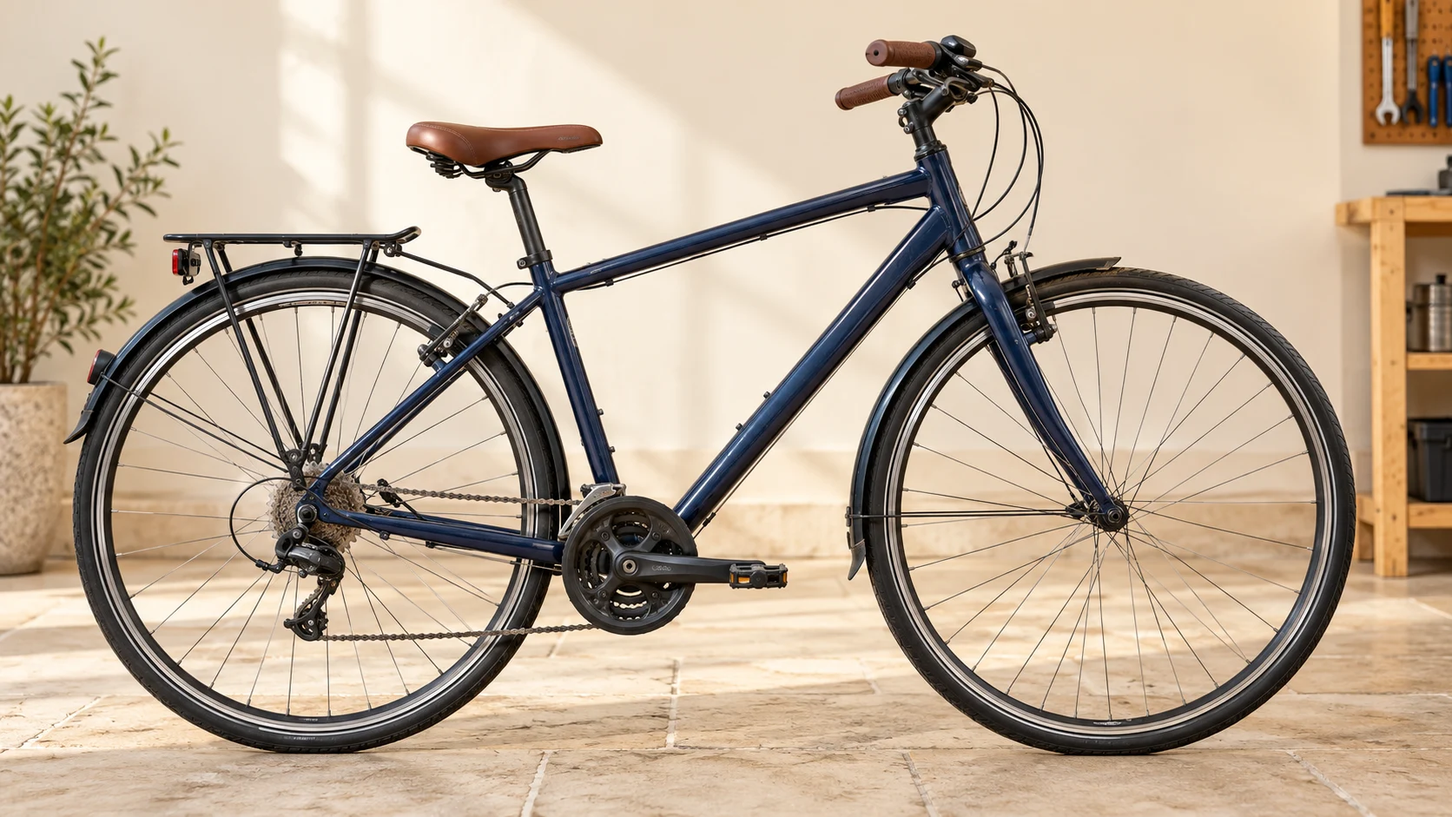
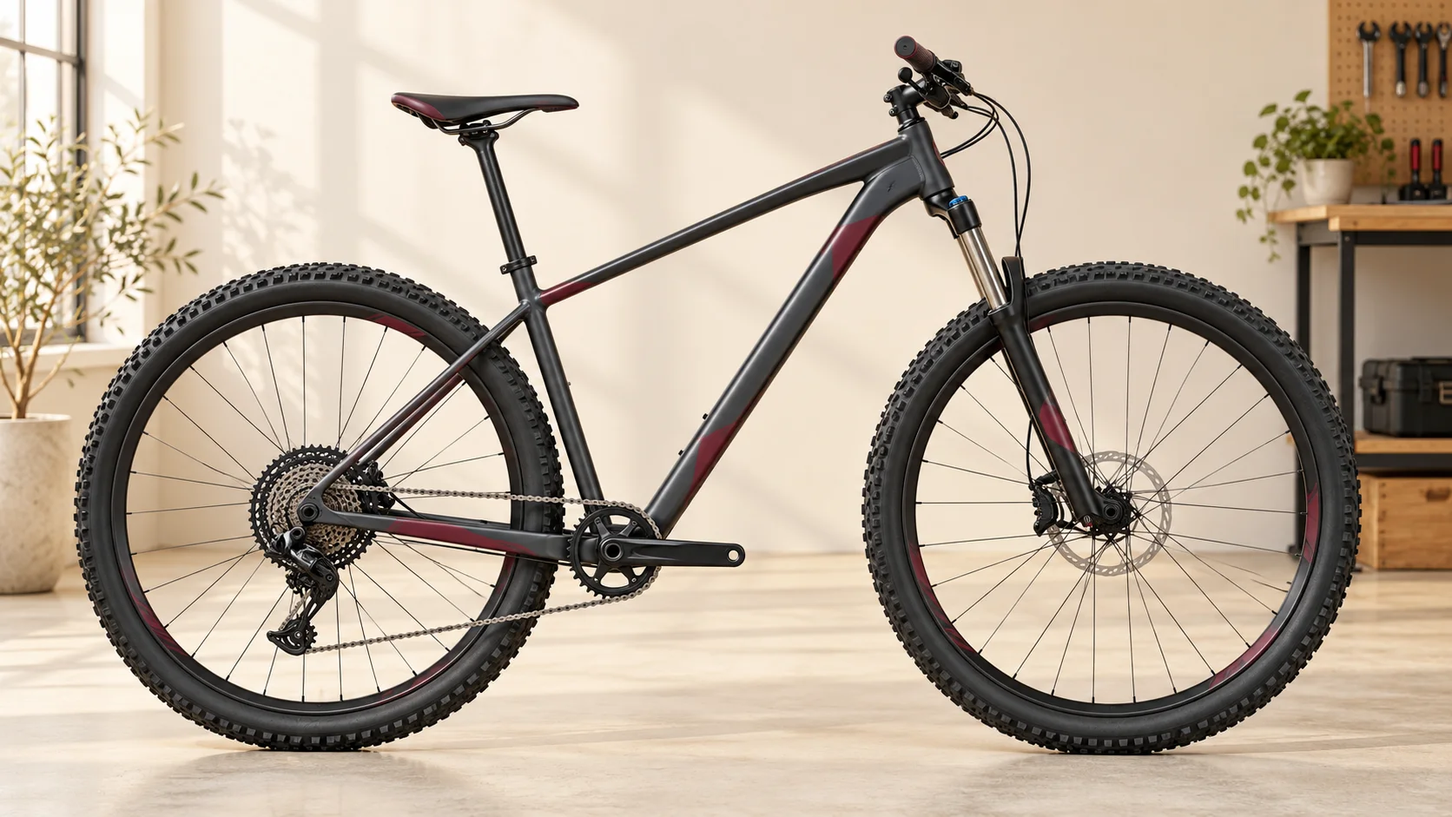
Update Lombard Sezam preview

diff --git a/co-przyjmujemy.html b/co-przyjmujemy.html
@@ -1,10 +1,10 @@
 <!doctype html>
 <html lang="pl"><head><meta charset="UTF-8"><meta name="robots" content="noindex, nofollow"><meta name="viewport" content="width=device-width,initial-scale=1">
-<title>Co przyjmujemy pod zastaw? Lombard Gorzów | Sezam</title><meta name="description" content="Złoto, srebro, telefony, laptopy, elektronarzędzia i rowery. Sprawdź, co przyjmuje Lombard Sezam w Gorzowie i jak przygotować przedmiot do wyceny."><link rel="canonical" href="https://lombard-gorzow.pl/co-przyjmujemy.html">
-<meta property="og:type" content="website"><meta property="og:title" content="Co przyjmujemy pod zastaw? Lombard Gorzów | Sezam"><meta property="og:description" content="Złoto, srebro, telefony, laptopy, elektronarzędzia i rowery. Sprawdź, co przyjmuje Lombard Sezam w Gorzowie i jak przygotować przedmiot do wyceny."><meta property="og:url" content="https://lombard-gorzow.pl/co-przyjmujemy.html"><meta property="og:image" content="https://lombard-gorzow.pl/assets/lombard-gotowka.webp"><meta property="og:locale" content="pl_PL">
-<link rel="stylesheet" href="style.css?v=c0da51a34c">
+<title>Co przyjmujemy pod zastaw? Lombard Gorzów | Sezam</title><meta name="description" content="Złoto, srebro, elektronika użytkowa, konsole PlayStation, elektronarzędzia i rowery. Sprawdź, co przyjmuje Lombard Sezam w Gorzowie."><link rel="canonical" href="https://lombard-gorzow.pl/co-przyjmujemy.html">
+<meta property="og:type" content="website"><meta property="og:title" content="Co przyjmujemy pod zastaw? Lombard Gorzów | Sezam"><meta property="og:description" content="Złoto, srebro, elektronika użytkowa, konsole PlayStation, elektronarzędzia i rowery. Sprawdź, co przyjmuje Lombard Sezam w Gorzowie."><meta property="og:url" content="https://lombard-gorzow.pl/co-przyjmujemy.html"><meta property="og:image" content="https://lombard-gorzow.pl/assets/lombard-gotowka.webp"><meta property="og:locale" content="pl_PL">
+<link rel="stylesheet" href="style.css?v=46b2a8a09e">
 <script type="application/ld+json">[{"@context": "https://schema.org", "@type": "WebSite", "name": "Lombard Sezam", "url": "https://lombard-gorzow.pl/"}]</script>
 <script defer src="app.js?v=8a57ca04e7"></script>
 
 </head><body><a class="skip-link" href="#tresc">Przejdź do treści</a><div class="top">GORZÓW WIELKOPOLSKI <span>Lombard · skup złota · wycena przedmiotów</span></div>
-<header id="gora"><a class="logo brand-sezam" href="index.html" aria-label="Lombard Sezam — strona główna"><img src="assets/sezam-logo.png?v=7c6a0f2772" alt="Logo Sezam" width="2033" height="313"></a><nav id="desktop-navigation" aria-label="Menu główne"><a href="co-przyjmujemy.html" aria-current="page">Co przyjmujemy</a><a href="na-sprzedaz.html">Na sprzedaż</a><a href="cennik.html">Cennik skupu</a><a href="kalkulator-oplat.html">Sprawdź, ile zapłacisz</a><a href="blog.html">Blog</a><a href="kontakt.html">Kontakt</a></nav><details class="mobile-navigation"><summary class="menu-toggle"><svg class="menu-icon" viewBox="0 0 24 24" width="23" height="23" aria-hidden="true"><path d="M3 6h18M3 12h18M3 18h18" fill="none" stroke="currentColor" stroke-width="2" stroke-linecap="round"/></svg><span>Menu</span></summary><nav id="main-navigation" aria-label="Menu główne"><a href="co-przyjmujemy.html" aria-current="page">Co przyjmujemy</a><a href="na-sprzedaz.html">Na sprzedaż</a><a href="cennik.html">Cennik skupu</a><a href="kalkulator-oplat.html">Sprawdź, ile zapłacisz</a><a href="blog.html">Blog</a><a href="kontakt.html">Kontakt</a></nav></details><a class="outline" href="kalkulator-oplat.html">Sprawdź opłaty →</a></header><main id="tresc"><section class="accepted-section" id="przyjmujemy"><div class="section-head"><div><div class="eyebrow">TWÓJ PRZEDMIOT MA WARTOŚĆ</div><h1>Co przyjmujemy w lombardzie w Gorzowie?</h1></div><p>Wybierz kategorię i zapytaj o wycenę.<br> Warunki ustalimy po sprawdzeniu przedmiotu.</p></div><div class="accepted-grid"><a href="kontakt.html#wycena" class="accepted-card"><img class="accepted-photo" src="assets/skup-zlota-srebra.webp?v=f5509496d9" alt="Złote obrączki, łańcuszek, moneta i mała sztabka oraz srebrne monety na kamiennym blacie — ilustracja poglądowa" loading="lazy" decoding="async" width="1536" height="864"><span class="category-number">01 / METALE SZLACHETNE</span><h3>Złoto i srebro</h3><p>Biżuteria, złote i srebrne monety oraz sztabki. Wycena według próby i masy.</p><span class="category-cta">Zapytaj o wycenę →</span></a><a href="kontakt.html#wycena" class="accepted-card"><img class="accepted-photo" src="assets/blog-elektronika.webp?v=cf7b031d32" alt="Telefon i laptop z ładowarką na biurku — ilustracja poglądowa" loading="lazy" decoding="async" width="1536" height="864"><span class="category-number">02 / ELEKTRONIKA</span><h3>Telefony i laptopy</h3><p>Telefony, smartfony i laptopy. Podaj model, stan urządzenia i posiadane akcesoria.</p><span class="category-cta">Zapytaj o wycenę →</span></a><a href="kontakt.html#wycena" class="accepted-card"><img class="accepted-photo" src="assets/elektronarzedzia.webp?v=ebbbbc404a" alt="Wiertarko-wkrętarka i szlifierka kątowa z akumulatorem i ładowarką — ilustracja poglądowa" loading="lazy" decoding="async" width="1536" height="864"><span class="category-number">03 / ELEKTRONARZĘDZIA</span><h3>Elektronarzędzia</h3><p>Wiertarki, wkrętarki, szlifierki i młotowiertarki. Podaj model, stan i posiadane akcesoria.</p><span class="category-cta">Zapytaj o wycenę →</span></a><a href="kontakt.html#wycena" class="accepted-card"><img class="accepted-photo" src="assets/rowery.webp?v=4b570c2f53" alt="Rower miejski z granatową ramą na jasnym tle — ilustracja poglądowa" loading="lazy" decoding="async" width="1536" height="864"><span class="category-number">04 / ROWERY</span><h3>Rowery</h3><p>Rowery miejskie, trekkingowe i górskie. Podaj model, stan roweru oraz posiadane akcesoria.</p><span class="category-cta">Zapytaj o wycenę →</span></a></div></section><section class="reading-section"><h2>Przynieś przedmiot lub zapytaj o wycenę</h2><p>Przyjmujemy różne wartościowe przedmioty. Podane kategorie to przykłady, a nie zamknięta lista. Jeśli masz inny przedmiot, napisz do Lombardu Sezam lub zadzwoń. Ustalimy, czy możemy go przyjąć i jakie informacje będą potrzebne.</p><p>Przy elektronice i elektronarzędziach podaj model, stan oraz posiadane akcesoria. Do roweru przygotuj informacje o wyposażeniu i ewentualnych usterkach. Przy złocie i srebrze znaczenie mają między innymi próba oraz masa. Ostateczna wycena wymaga sprawdzenia przedmiotu.</p><a class="button" href="kontakt.html">Zapytaj o swój przedmiot →</a></section></main><footer><a class="logo footer-brand" href="#gora">LOMBARD SEZAM<span>GORZÓW WIELKOPOLSKI</span></a><p>ul. Pocztowa 11<br> 66-400 Gorzów Wielkopolski</p><div class="footer-sites"><span>NASZE STRONY</span><nav aria-label="Nasze strony"><a href="https://sezam.com.pl" target="_blank" rel="noopener noreferrer">sezam.com.pl →</a><a href="https://srebrogorzow.pl" target="_blank" rel="noopener noreferrer">srebrogorzow.pl →</a><a href="https://zlotogorzow.pl" target="_blank" rel="noopener noreferrer">zlotogorzow.pl →</a><a href="https://www.obraczkigorzow.pl" target="_blank" rel="noopener noreferrer">www.obraczkigorzow.pl →</a><a href="https://www.skupzlotagorzow.pl" target="_blank" rel="noopener noreferrer">www.skupzlotagorzow.pl →</a></nav></div></footer></body></html>
+<header id="gora"><a class="logo brand-sezam" href="index.html" aria-label="Lombard Sezam — strona główna"><img src="assets/sezam-logo.png?v=7c6a0f2772" alt="Logo Sezam" width="2033" height="313"></a><nav id="desktop-navigation" aria-label="Menu główne"><a href="co-przyjmujemy.html" aria-current="page">Co przyjmujemy</a><a href="na-sprzedaz.html">Na sprzedaż</a><a href="cennik.html">Cennik skupu</a><a href="kalkulator-oplat.html">Sprawdź, ile zapłacisz</a><a href="blog.html">Blog</a><a href="kontakt.html">Kontakt</a></nav><details class="mobile-navigation"><summary class="menu-toggle"><svg class="menu-icon" viewBox="0 0 24 24" width="23" height="23" aria-hidden="true"><path d="M3 6h18M3 12h18M3 18h18" fill="none" stroke="currentColor" stroke-width="2" stroke-linecap="round"/></svg><span>Menu</span></summary><nav id="main-navigation" aria-label="Menu główne"><a href="co-przyjmujemy.html" aria-current="page">Co przyjmujemy</a><a href="na-sprzedaz.html">Na sprzedaż</a><a href="cennik.html">Cennik skupu</a><a href="kalkulator-oplat.html">Sprawdź, ile zapłacisz</a><a href="blog.html">Blog</a><a href="kontakt.html">Kontakt</a></nav></details><a class="outline" href="kalkulator-oplat.html">Sprawdź opłaty →</a></header><main id="tresc"><section class="accepted-section" id="przyjmujemy"><div class="section-head"><div><div class="eyebrow">TWÓJ PRZEDMIOT MA WARTOŚĆ</div><h1>Co przyjmujemy w lombardzie w Gorzowie?</h1></div><p>Wybierz kategorię i zapytaj o wycenę.<br> Warunki ustalimy po sprawdzeniu przedmiotu.</p></div><div class="accepted-grid"><a href="kontakt.html#wycena" class="accepted-card category-jewelry"><img class="accepted-photo" src="assets/skup-zlota-srebra.webp?v=a5ef214586" alt="Złota i srebrna biżuteria, łańcuszki, monety i sztabka — ilustracja poglądowa" loading="lazy" decoding="async" width="1672" height="941"><span class="category-number">01 / METALE SZLACHETNE</span><h3>Złoto i srebro</h3><p>Złota i srebrna biżuteria, łańcuszki, monety oraz sztabki. Zapytaj o wycenę swoich przedmiotów.</p><span class="category-cta">Zapytaj o wycenę →</span></a><a href="kontakt.html#wycena" class="accepted-card category-electronics"><img class="accepted-photo" src="assets/elektronika-uzytkowa.webp?v=36c6e0217d" alt="Laptop, smartfon i tablet z akcesoriami — ilustracja poglądowa" loading="lazy" decoding="async" width="1672" height="941"><span class="category-number">02 / ELEKTRONIKA UŻYTKOWA</span><h3>Telefony, laptopy i tablety</h3><p>Smartfony, laptopy, tablety i inna elektronika użytkowa. Podaj model, stan urządzenia i posiadane akcesoria.</p><span class="category-cta">Zapytaj o wycenę →</span></a><a href="kontakt.html#wycena" class="accepted-card category-consoles"><img class="accepted-photo" src="assets/konsole-playstation.webp?v=890b5bd54d" alt="Konsola PlayStation 5 z dwoma padami — ilustracja poglądowa" loading="lazy" decoding="async" width="1672" height="941"><span class="category-number">03 / KONSOLE</span><h3>Konsole PlayStation</h3><p>Konsole PlayStation z padami i akcesoriami. Podaj model, stan i zawartość zestawu.</p><span class="category-cta">Zapytaj o wycenę →</span></a><a href="kontakt.html#wycena" class="accepted-card category-tools"><img class="accepted-photo" src="assets/elektronarzedzia.webp?v=ebbbbc404a" alt="Wiertarko-wkrętarka i szlifierka kątowa z akumulatorem i ładowarką — ilustracja poglądowa" loading="lazy" decoding="async" width="1672" height="941"><span class="category-number">04 / ELEKTRONARZĘDZIA</span><h3>Elektronarzędzia</h3><p>Wiertarki, wkrętarki, szlifierki i młotowiertarki. Podaj model, stan i posiadane akcesoria.</p><span class="category-cta">Zapytaj o wycenę →</span></a><a href="kontakt.html#wycena" class="accepted-card category-bikes"><img class="accepted-photo" src="assets/rowery.webp?v=f06580676d" alt="Nowoczesny rower górski z amortyzatorem i hamulcami tarczowymi — ilustracja poglądowa" loading="lazy" decoding="async" width="1672" height="941"><span class="category-number">05 / ROWERY</span><h3>Rowery</h3><p>Rowery górskie, miejskie i trekkingowe. Podaj model, stan roweru oraz posiadane akcesoria.</p><span class="category-cta">Zapytaj o wycenę →</span></a></div></section><section class="reading-section"><h2>Przynieś przedmiot lub zapytaj o wycenę</h2><p>Przyjmujemy różne wartościowe przedmioty. Podane kategorie to przykłady, a nie zamknięta lista. Jeśli masz inny przedmiot, napisz do Lombardu Sezam lub zadzwoń. Ustalimy, czy możemy go przyjąć i jakie informacje będą potrzebne.</p><p>Przy elektronice i elektronarzędziach podaj model, stan oraz posiadane akcesoria. Do roweru przygotuj informacje o wyposażeniu i ewentualnych usterkach. Przy złocie i srebrze znaczenie mają między innymi próba oraz masa. Ostateczna wycena wymaga sprawdzenia przedmiotu.</p><a class="button" href="kontakt.html">Zapytaj o swój przedmiot →</a></section></main><footer><a class="logo footer-brand" href="#gora">LOMBARD SEZAM<span>GORZÓW WIELKOPOLSKI</span></a><p>ul. Pocztowa 11<br> 66-400 Gorzów Wielkopolski</p><div class="footer-sites"><span>NASZE STRONY</span><nav aria-label="Nasze strony"><a href="https://sezam.com.pl" target="_blank" rel="noopener noreferrer">sezam.com.pl →</a><a href="https://srebrogorzow.pl" target="_blank" rel="noopener noreferrer">srebrogorzow.pl →</a><a href="https://zlotogorzow.pl" target="_blank" rel="noopener noreferrer">zlotogorzow.pl →</a><a href="https://www.obraczkigorzow.pl" target="_blank" rel="noopener noreferrer">www.obraczkigorzow.pl →</a><a href="https://www.skupzlotagorzow.pl" target="_blank" rel="noopener noreferrer">www.skupzlotagorzow.pl →</a></nav></div></footer></body></html>

diff --git a/blog/swieta-bozego-narodzenia-2027.html b/blog/swieta-bozego-narodzenia-2027.html
@@ -2,7 +2,7 @@
 <html lang="pl"><head><meta charset="UTF-8"><meta name="robots" content="noindex, nofollow"><meta name="viewport" content="width=device-width,initial-scale=1">
 <title>Święta Bożego Narodzenia 2027 — zaplanuj wydatki i daj rzeczom drugie życie. | Lombard Sezam Gorzów</title><meta name="description" content="Spokojny plan zakupów, przegląd szuflad i prezenty z drugiej ręki bez zakupowego pośpiechu."><link rel="canonical" href="https://lombard-gorzow.pl/blog/swieta-bozego-narodzenia-2027.html">
 <meta property="og:type" content="article"><meta property="og:title" content="Święta Bożego Narodzenia 2027 — zaplanuj wydatki i daj rzeczom drugie życie. | Lombard Sezam Gorzów"><meta property="og:description" content="Spokojny plan zakupów, przegląd szuflad i prezenty z drugiej ręki bez zakupowego pośpiechu."><meta property="og:url" content="https://lombard-gorzow.pl/blog/swieta-bozego-narodzenia-2027.html"><meta property="og:image" content="https://lombard-gorzow.pl/assets/blog-swieta.webp"><meta property="og:locale" content="pl_PL">
-<link rel="stylesheet" href="../style.css?v=c0da51a34c">
+<link rel="stylesheet" href="../style.css?v=46b2a8a09e">
 <script type="application/ld+json">[{"@context": "https://schema.org", "@type": "WebSite", "name": "Lombard Sezam", "url": "https://lombard-gorzow.pl/"}, {"@context": "https://schema.org", "@type": "BlogPosting", "headline": "Święta Bożego Narodzenia 2027 — zaplanuj wydatki i daj rzeczom drugie życie.", "description": "Spokojny plan zakupów, przegląd szuflad i prezenty z drugiej ręki bez zakupowego pośpiechu.", "image": "https://lombard-gorzow.pl/assets/blog-swieta.webp", "author": {"@type": "Organization", "name": "Lombard Sezam"}, "mainEntityOfPage": "https://lombard-gorzow.pl/blog/swieta-bozego-narodzenia-2027.html"}]</script>
 <script defer src="../app.js?v=8a57ca04e7"></script>
 

diff --git a/blog/co-przyjmujemy-do-lombardu.html b/blog/co-przyjmujemy-do-lombardu.html
@@ -2,7 +2,7 @@
 <html lang="pl"><head><meta charset="UTF-8"><meta name="robots" content="noindex, nofollow"><meta name="viewport" content="width=device-width,initial-scale=1">
 <title>Co przyjmujemy do lombardu? Zacznij od sprawdzenia swoich rzeczy. | Lombard Sezam Gorzów</title><meta name="description" content="Złoto, biżuteria, telefony i laptopy — dowiedz się, jakie informacje przygotować przed wyceną."><link rel="canonical" href="https://lombard-gorzow.pl/blog/co-przyjmujemy-do-lombardu.html">
 <meta property="og:type" content="article"><meta property="og:title" content="Co przyjmujemy do lombardu? Zacznij od sprawdzenia swoich rzeczy. | Lombard Sezam Gorzów"><meta property="og:description" content="Złoto, biżuteria, telefony i laptopy — dowiedz się, jakie informacje przygotować przed wyceną."><meta property="og:url" content="https://lombard-gorzow.pl/blog/co-przyjmujemy-do-lombardu.html"><meta property="og:image" content="https://lombard-gorzow.pl/assets/blog-przedmioty.webp"><meta property="og:locale" content="pl_PL">
-<link rel="stylesheet" href="../style.css?v=c0da51a34c">
+<link rel="stylesheet" href="../style.css?v=46b2a8a09e">
 <script type="application/ld+json">[{"@context": "https://schema.org", "@type": "WebSite", "name": "Lombard Sezam", "url": "https://lombard-gorzow.pl/"}, {"@context": "https://schema.org", "@type": "BlogPosting", "headline": "Co przyjmujemy do lombardu? Zacznij od sprawdzenia swoich rzeczy.", "description": "Złoto, biżuteria, telefony i laptopy — dowiedz się, jakie informacje przygotować przed wyceną.", "image": "https://lombard-gorzow.pl/assets/blog-przedmioty.webp", "author": {"@type": "Organization", "name": "Lombard Sezam"}, "mainEntityOfPage": "https://lombard-gorzow.pl/blog/co-przyjmujemy-do-lombardu.html"}]</script>
 <script defer src="../app.js?v=8a57ca04e7"></script>
 

diff --git a/blog/telefon-laptop-przed-sprzedaza.html b/blog/telefon-laptop-przed-sprzedaza.html
@@ -2,7 +2,7 @@
 <html lang="pl"><head><meta charset="UTF-8"><meta name="robots" content="noindex, nofollow"><meta name="viewport" content="width=device-width,initial-scale=1">
 <title>Telefon lub laptop do sprzedaży — co zrobić przed wizytą? | Lombard Sezam Gorzów</title><meta name="description" content="Prosta lista przygotowań: model, akcesoria, kopia danych i bezpieczne wylogowanie."><link rel="canonical" href="https://lombard-gorzow.pl/blog/telefon-laptop-przed-sprzedaza.html">
 <meta property="og:type" content="article"><meta property="og:title" content="Telefon lub laptop do sprzedaży — co zrobić przed wizytą? | Lombard Sezam Gorzów"><meta property="og:description" content="Prosta lista przygotowań: model, akcesoria, kopia danych i bezpieczne wylogowanie."><meta property="og:url" content="https://lombard-gorzow.pl/blog/telefon-laptop-przed-sprzedaza.html"><meta property="og:image" content="https://lombard-gorzow.pl/assets/blog-elektronika.webp"><meta property="og:locale" content="pl_PL">
-<link rel="stylesheet" href="../style.css?v=c0da51a34c">
+<link rel="stylesheet" href="../style.css?v=46b2a8a09e">
 <script type="application/ld+json">[{"@context": "https://schema.org", "@type": "WebSite", "name": "Lombard Sezam", "url": "https://lombard-gorzow.pl/"}, {"@context": "https://schema.org", "@type": "BlogPosting", "headline": "Telefon lub laptop do sprzedaży — co zrobić przed wizytą?", "description": "Prosta lista przygotowań: model, akcesoria, kopia danych i bezpieczne wylogowanie.", "image": "https://lombard-gorzow.pl/assets/blog-elektronika.webp", "author": {"@type": "Organization", "name": "Lombard Sezam"}, "mainEntityOfPage": "https://lombard-gorzow.pl/blog/telefon-laptop-przed-sprzedaza.html"}]</script>
 <script defer src="../app.js?v=8a57ca04e7"></script>
 

diff --git a/blog/ile-warte-jest-zloto.html b/blog/ile-warte-jest-zloto.html
@@ -2,7 +2,7 @@
 <html lang="pl"><head><meta charset="UTF-8"><meta name="robots" content="noindex, nofollow"><meta name="viewport" content="width=device-width,initial-scale=1">
 <title>Ile warte jest Twoje złoto? Próba, masa i cena za gram. | Lombard Sezam Gorzów</title><meta name="description" content="Jak czytać cennik skupu i dlaczego cena całego pierścionka nie wynika wyłącznie z jego wagi?"><link rel="canonical" href="https://lombard-gorzow.pl/blog/ile-warte-jest-zloto.html">
 <meta property="og:type" content="article"><meta property="og:title" content="Ile warte jest Twoje złoto? Próba, masa i cena za gram. | Lombard Sezam Gorzów"><meta property="og:description" content="Jak czytać cennik skupu i dlaczego cena całego pierścionka nie wynika wyłącznie z jego wagi?"><meta property="og:url" content="https://lombard-gorzow.pl/blog/ile-warte-jest-zloto.html"><meta property="og:image" content="https://lombard-gorzow.pl/assets/zlota-bizuteria.webp"><meta property="og:locale" content="pl_PL">
-<link rel="stylesheet" href="../style.css?v=c0da51a34c">
+<link rel="stylesheet" href="../style.css?v=46b2a8a09e">
 <script type="application/ld+json">[{"@context": "https://schema.org", "@type": "WebSite", "name": "Lombard Sezam", "url": "https://lombard-gorzow.pl/"}, {"@context": "https://schema.org", "@type": "BlogPosting", "headline": "Ile warte jest Twoje złoto? Próba, masa i cena za gram.", "description": "Jak czytać cennik skupu i dlaczego cena całego pierścionka nie wynika wyłącznie z jego wagi?", "image": "https://lombard-gorzow.pl/assets/zlota-bizuteria.webp", "author": {"@type": "Organization", "name": "Lombard Sezam"}, "mainEntityOfPage": "https://lombard-gorzow.pl/blog/ile-warte-jest-zloto.html"}]</script>
 <script defer src="../app.js?v=8a57ca04e7"></script>
 

diff --git a/sztabki-srebrne.html b/sztabki-srebrne.html
@@ -2,7 +2,7 @@
 <html lang="pl"><head><meta charset="UTF-8"><meta name="robots" content="noindex, nofollow"><meta name="viewport" content="width=device-width,initial-scale=1">
 <title>Skup sztabek srebrnych Gorzów — ceny za sztukę | Sezam</title><meta name="description" content="Cennik skupu sztabek srebrnych w Gorzowie. Wybierz nazwę i masę produktu, sprawdź cenę za sztukę oraz zapytaj o wycenę w Lombardzie Sezam."><link rel="canonical" href="https://lombard-gorzow.pl/sztabki-srebrne.html">
 <meta property="og:type" content="website"><meta property="og:title" content="Skup sztabek srebrnych Gorzów — ceny za sztukę | Sezam"><meta property="og:description" content="Cennik skupu sztabek srebrnych w Gorzowie. Wybierz nazwę i masę produktu, sprawdź cenę za sztukę oraz zapytaj o wycenę w Lombardzie Sezam."><meta property="og:url" content="https://lombard-gorzow.pl/sztabki-srebrne.html"><meta property="og:image" content="https://lombard-gorzow.pl/assets/lombard-gotowka.webp"><meta property="og:locale" content="pl_PL">
-<link rel="stylesheet" href="style.css?v=c0da51a34c">
+<link rel="stylesheet" href="style.css?v=46b2a8a09e">
 <script type="application/ld+json">[{"@context": "https://schema.org", "@type": "WebSite", "name": "Lombard Sezam", "url": "https://lombard-gorzow.pl/"}]</script>
 <script defer src="app.js?v=8a57ca04e7"></script>
 <script defer src="prices.js?v=11d7fd412a"></script>

diff --git a/kalkulator-oplat.html b/kalkulator-oplat.html
@@ -2,7 +2,7 @@
 <html lang="pl"><head><meta charset="UTF-8"><meta name="robots" content="noindex, nofollow"><meta name="viewport" content="width=device-width,initial-scale=1">
 <title>Kalkulator opłat — 2,5% / 15 dni, 5% / 30 dni | Sezam</title><meta name="description" content="Sprawdź opłatę i łączną kwotę do spłaty w Lombardzie Sezam Gorzów. Kalkulator: 2,5% za 15 dni lub 5% za 30 dni, od 50 do 100 000 zł."><link rel="canonical" href="https://lombard-gorzow.pl/kalkulator-oplat.html">
 <meta property="og:type" content="website"><meta property="og:title" content="Kalkulator opłat — 2,5% / 15 dni, 5% / 30 dni | Sezam"><meta property="og:description" content="Sprawdź opłatę i łączną kwotę do spłaty w Lombardzie Sezam Gorzów. Kalkulator: 2,5% za 15 dni lub 5% za 30 dni, od 50 do 100 000 zł."><meta property="og:url" content="https://lombard-gorzow.pl/kalkulator-oplat.html"><meta property="og:image" content="https://lombard-gorzow.pl/assets/lombard-gotowka.webp"><meta property="og:locale" content="pl_PL">
-<link rel="stylesheet" href="style.css?v=c0da51a34c">
+<link rel="stylesheet" href="style.css?v=46b2a8a09e">
 <script type="application/ld+json">[{"@context": "https://schema.org", "@type": "WebSite", "name": "Lombard Sezam", "url": "https://lombard-gorzow.pl/"}]</script>
 <script defer src="app.js?v=8a57ca04e7"></script>
 <script defer src="calculator.js?v=58bc59a851"></script>

diff --git a/sztabki-zlote.html b/sztabki-zlote.html
@@ -2,7 +2,7 @@
 <html lang="pl"><head><meta charset="UTF-8"><meta name="robots" content="noindex, nofollow"><meta name="viewport" content="width=device-width,initial-scale=1">
 <title>Skup sztabek złotych Gorzów — ceny za sztukę | Sezam</title><meta name="description" content="Cennik skupu sztabek złotych w Gorzowie. Wybierz nazwę i masę produktu, sprawdź cenę za sztukę oraz zapytaj o wycenę w Lombardzie Sezam."><link rel="canonical" href="https://lombard-gorzow.pl/sztabki-zlote.html">
 <meta property="og:type" content="website"><meta property="og:title" content="Skup sztabek złotych Gorzów — ceny za sztukę | Sezam"><meta property="og:description" content="Cennik skupu sztabek złotych w Gorzowie. Wybierz nazwę i masę produktu, sprawdź cenę za sztukę oraz zapytaj o wycenę w Lombardzie Sezam."><meta property="og:url" content="https://lombard-gorzow.pl/sztabki-zlote.html"><meta property="og:image" content="https://lombard-gorzow.pl/assets/lombard-gotowka.webp"><meta property="og:locale" content="pl_PL">
-<link rel="stylesheet" href="style.css?v=c0da51a34c">
+<link rel="stylesheet" href="style.css?v=46b2a8a09e">
 <script type="application/ld+json">[{"@context": "https://schema.org", "@type": "WebSite", "name": "Lombard Sezam", "url": "https://lombard-gorzow.pl/"}]</script>
 <script defer src="app.js?v=8a57ca04e7"></script>
 <script defer src="prices.js?v=11d7fd412a"></script>

diff --git a/monety-srebrne.html b/monety-srebrne.html
@@ -2,7 +2,7 @@
 <html lang="pl"><head><meta charset="UTF-8"><meta name="robots" content="noindex, nofollow"><meta name="viewport" content="width=device-width,initial-scale=1">
 <title>Skup monet srebrnych Gorzów — ceny za sztukę | Sezam</title><meta name="description" content="Cennik skupu monet srebrnych w Gorzowie. Wybierz nazwę i masę produktu, sprawdź cenę za sztukę oraz zapytaj o wycenę w Lombardzie Sezam."><link rel="canonical" href="https://lombard-gorzow.pl/monety-srebrne.html">
 <meta property="og:type" content="website"><meta property="og:title" content="Skup monet srebrnych Gorzów — ceny za sztukę | Sezam"><meta property="og:description" content="Cennik skupu monet srebrnych w Gorzowie. Wybierz nazwę i masę produktu, sprawdź cenę za sztukę oraz zapytaj o wycenę w Lombardzie Sezam."><meta property="og:url" content="https://lombard-gorzow.pl/monety-srebrne.html"><meta property="og:image" content="https://lombard-gorzow.pl/assets/lombard-gotowka.webp"><meta property="og:locale" content="pl_PL">
-<link rel="stylesheet" href="style.css?v=c0da51a34c">
+<link rel="stylesheet" href="style.css?v=46b2a8a09e">
 <script type="application/ld+json">[{"@context": "https://schema.org", "@type": "WebSite", "name": "Lombard Sezam", "url": "https://lombard-gorzow.pl/"}]</script>
 <script defer src="app.js?v=8a57ca04e7"></script>
 <script defer src="prices.js?v=11d7fd412a"></script>

diff --git a/monety-zlote.html b/monety-zlote.html
@@ -2,7 +2,7 @@
 <html lang="pl"><head><meta charset="UTF-8"><meta name="robots" content="noindex, nofollow"><meta name="viewport" content="width=device-width,initial-scale=1">
 <title>Skup monet złotych Gorzów — ceny za sztukę | Sezam</title><meta name="description" content="Cennik skupu monet złotych w Gorzowie. Wybierz nazwę i masę produktu, sprawdź cenę za sztukę oraz zapytaj o wycenę w Lombardzie Sezam."><link rel="canonical" href="https://lombard-gorzow.pl/monety-zlote.html">
 <meta property="og:type" content="website"><meta property="og:title" content="Skup monet złotych Gorzów — ceny za sztukę | Sezam"><meta property="og:description" content="Cennik skupu monet złotych w Gorzowie. Wybierz nazwę i masę produktu, sprawdź cenę za sztukę oraz zapytaj o wycenę w Lombardzie Sezam."><meta property="og:url" content="https://lombard-gorzow.pl/monety-zlote.html"><meta property="og:image" content="https://lombard-gorzow.pl/assets/lombard-gotowka.webp"><meta property="og:locale" content="pl_PL">
-<link rel="stylesheet" href="style.css?v=c0da51a34c">
+<link rel="stylesheet" href="style.css?v=46b2a8a09e">
 <script type="application/ld+json">[{"@context": "https://schema.org", "@type": "WebSite", "name": "Lombard Sezam", "url": "https://lombard-gorzow.pl/"}]</script>
 <script defer src="app.js?v=8a57ca04e7"></script>
 <script defer src="prices.js?v=11d7fd412a"></script>

diff --git a/cennik-palladu.html b/cennik-palladu.html
@@ -2,7 +2,7 @@
 <html lang="pl"><head><meta charset="UTF-8"><meta name="robots" content="noindex, nofollow"><meta name="viewport" content="width=device-width,initial-scale=1">
 <title>Skup palladu Gorzów — ceny za gram | Lombard Sezam</title><meta name="description" content="Cennik skupu palladu w Gorzowie Wielkopolskim. Ceny za gram dla poszczególnych prób z panelu Sezam. Wycena przy ul. Pocztowej 11."><link rel="canonical" href="https://lombard-gorzow.pl/cennik-palladu.html">
 <meta property="og:type" content="website"><meta property="og:title" content="Skup palladu Gorzów — ceny za gram | Lombard Sezam"><meta property="og:description" content="Cennik skupu palladu w Gorzowie Wielkopolskim. Ceny za gram dla poszczególnych prób z panelu Sezam. Wycena przy ul. Pocztowej 11."><meta property="og:url" content="https://lombard-gorzow.pl/cennik-palladu.html"><meta property="og:image" content="https://lombard-gorzow.pl/assets/lombard-gotowka.webp"><meta property="og:locale" content="pl_PL">
-<link rel="stylesheet" href="style.css?v=c0da51a34c">
+<link rel="stylesheet" href="style.css?v=46b2a8a09e">
 <script type="application/ld+json">[{"@context": "https://schema.org", "@type": "WebSite", "name": "Lombard Sezam", "url": "https://lombard-gorzow.pl/"}]</script>
 <script defer src="app.js?v=8a57ca04e7"></script>
 <script defer src="prices.js?v=11d7fd412a"></script>

diff --git a/cennik-platyny.html b/cennik-platyny.html
@@ -2,7 +2,7 @@
 <html lang="pl"><head><meta charset="UTF-8"><meta name="robots" content="noindex, nofollow"><meta name="viewport" content="width=device-width,initial-scale=1">
 <title>Skup platyny Gorzów — ceny za gram | Lombard Sezam</title><meta name="description" content="Cennik skupu platyny w Gorzowie Wielkopolskim. Ceny za gram dla poszczególnych prób z panelu Sezam. Wycena przy ul. Pocztowej 11."><link rel="canonical" href="https://lombard-gorzow.pl/cennik-platyny.html">
 <meta property="og:type" content="website"><meta property="og:title" content="Skup platyny Gorzów — ceny za gram | Lombard Sezam"><meta property="og:description" content="Cennik skupu platyny w Gorzowie Wielkopolskim. Ceny za gram dla poszczególnych prób z panelu Sezam. Wycena przy ul. Pocztowej 11."><meta property="og:url" content="https://lombard-gorzow.pl/cennik-platyny.html"><meta property="og:image" content="https://lombard-gorzow.pl/assets/lombard-gotowka.webp"><meta property="og:locale" content="pl_PL">
-<link rel="stylesheet" href="style.css?v=c0da51a34c">
+<link rel="stylesheet" href="style.css?v=46b2a8a09e">
 <script type="application/ld+json">[{"@context": "https://schema.org", "@type": "WebSite", "name": "Lombard Sezam", "url": "https://lombard-gorzow.pl/"}]</script>
 <script defer src="app.js?v=8a57ca04e7"></script>
 <script defer src="prices.js?v=11d7fd412a"></script>
